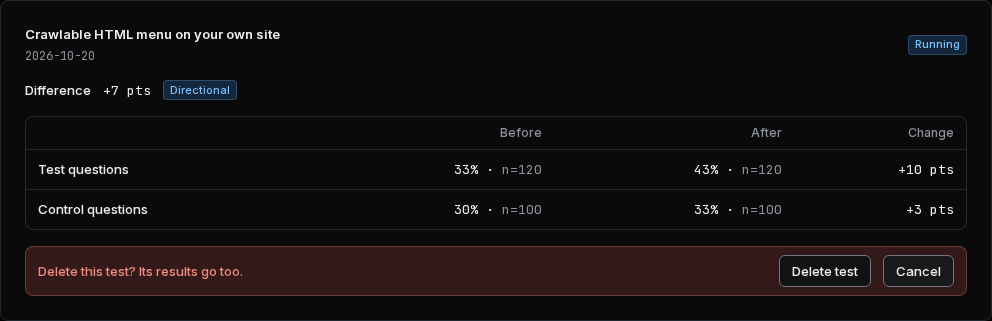
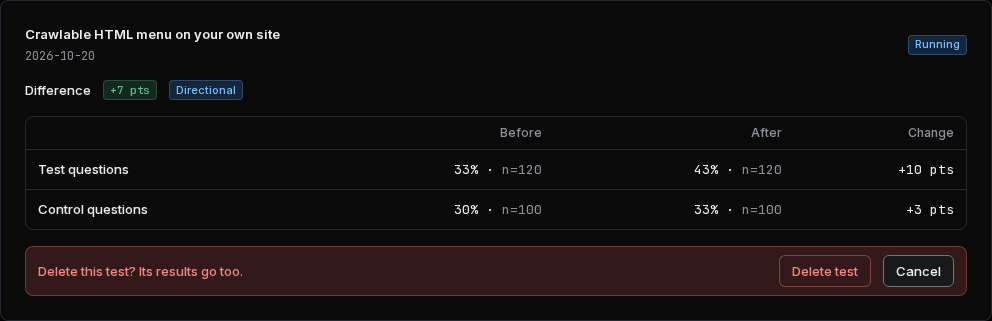
feat(app): danger confirm and a state badge for the experiment verdict (#141 review)
The inline delete looked like any other button, and the verdict delta was
plain text. Delete uses a danger variant in the error tones, and the
delta is the mono state badge from #126.

Changed region(s): [[0.7812, 0.7788, 0.875, 0.9034], [0.0938, 0.2492, 0.25, 0.3115]]

diff --git a/src/components/experiments/ExperimentList.tsx b/src/components/experiments/ExperimentList.tsx
@@ -6,7 +6,7 @@ import { Button } from "@/components/ui/Button";
 import { formatPercent } from "@/components/ui/StatNumber";
 import type { ExperimentResult, ExperimentStatus, GroupResult } from "@/lib/metrics/experiment";
 import type { Metric } from "@/types/metrics";
-import { signedPts } from "@/lib/metrics/delta";
+import { deltaTone, signedPts } from "@/lib/metrics/delta";
 import { experimentCopy as c } from "./copy";
 
 export type ExperimentCardView = {
@@ -58,9 +58,9 @@ function Results({ name, result }: { name: string; result: ExperimentResult | nu
     <>
       <p className="flex flex-wrap items-center gap-3 text-ui">
         <span className="font-medium">{c.difference}</span>
-        <span data-computed className="font-mono tabular-nums">
+        <Badge tone={deltaTone(result.difference ?? 0)} mono data-computed>
           {signedPts(result.difference ?? 0)}
-        </span>
+        </Badge>
         <Badge tone="info">{result.label}</Badge>
       </p>
       <div className="overflow-hidden rounded-card border border-border">
@@ -179,7 +179,7 @@ function CardActions({
         <p className="text-ui font-medium text-brick">{c.confirmDelete}</p>
         <div className="ml-auto flex gap-3">
           <Button
-            variant="alt"
+            variant="danger"
             onClick={() => {
               setAsking(false);
               onDelete();

diff --git a/src/components/ui/Button.tsx b/src/components/ui/Button.tsx
@@ -21,12 +21,14 @@ const variants = {
   // D35 .alt: the raised fill with a control-edge hairline.
   alt: `${control} border border-fieldBorder bg-raised text-ink hover:bg-overlay`,
   secondary: "group min-h-11 px-1.5 text-link underline underline-offset-4",
+  // Confirms a destructive step, in the error banner's tones (AA in both themes).
+  danger: `${control} border border-brick/40 bg-errorBg text-brick hover:border-brick`,
   // The final CTA uses the accent (D34: amber is no longer a button colour).
   final: `${control} bg-accent text-onAccent hover:bg-jellyLoading`,
 };
 
 type Props = {
-  variant?: "primary" | "secondary" | "alt" | "final";
+  variant?: "primary" | "secondary" | "alt" | "final" | "danger";
   size?: "md" | "lg";
   href?: string;
   loading?: boolean;

diff --git a/docs/progress/2026-11-06-ux-experiment-verdict.md b/docs/progress/2026-11-06-ux-experiment-verdict.md
@@ -4,3 +4,4 @@
 - Order inside the card: header → verdict line → table → actions. "Too few answers" is unchanged (the sentence, no table).
 - "End test" stays the alt button. "Delete test" is a text action at the far right. It confirms in place: an error-tone group "Delete this test? Its results go too." with "Delete test" and "Cancel" (COPY.md row "Delete confirm", lead 2026-11-06). Focus goes to Cancel, and Cancel or Escape returns it to "Delete test". The billing Dialog is no longer used here.
 - `experimentCopy.cancel` added ("Cancel", already in that COPY.md row).
+- Review follow-up: the inline "Delete test" uses a new Button `danger` variant (errorBg fill, brick text, brick/40 edge; the error banner's AA tones), and focus still goes to Cancel. The verdict's delta is the #126 mono state badge (signedPts + deltaTone).
